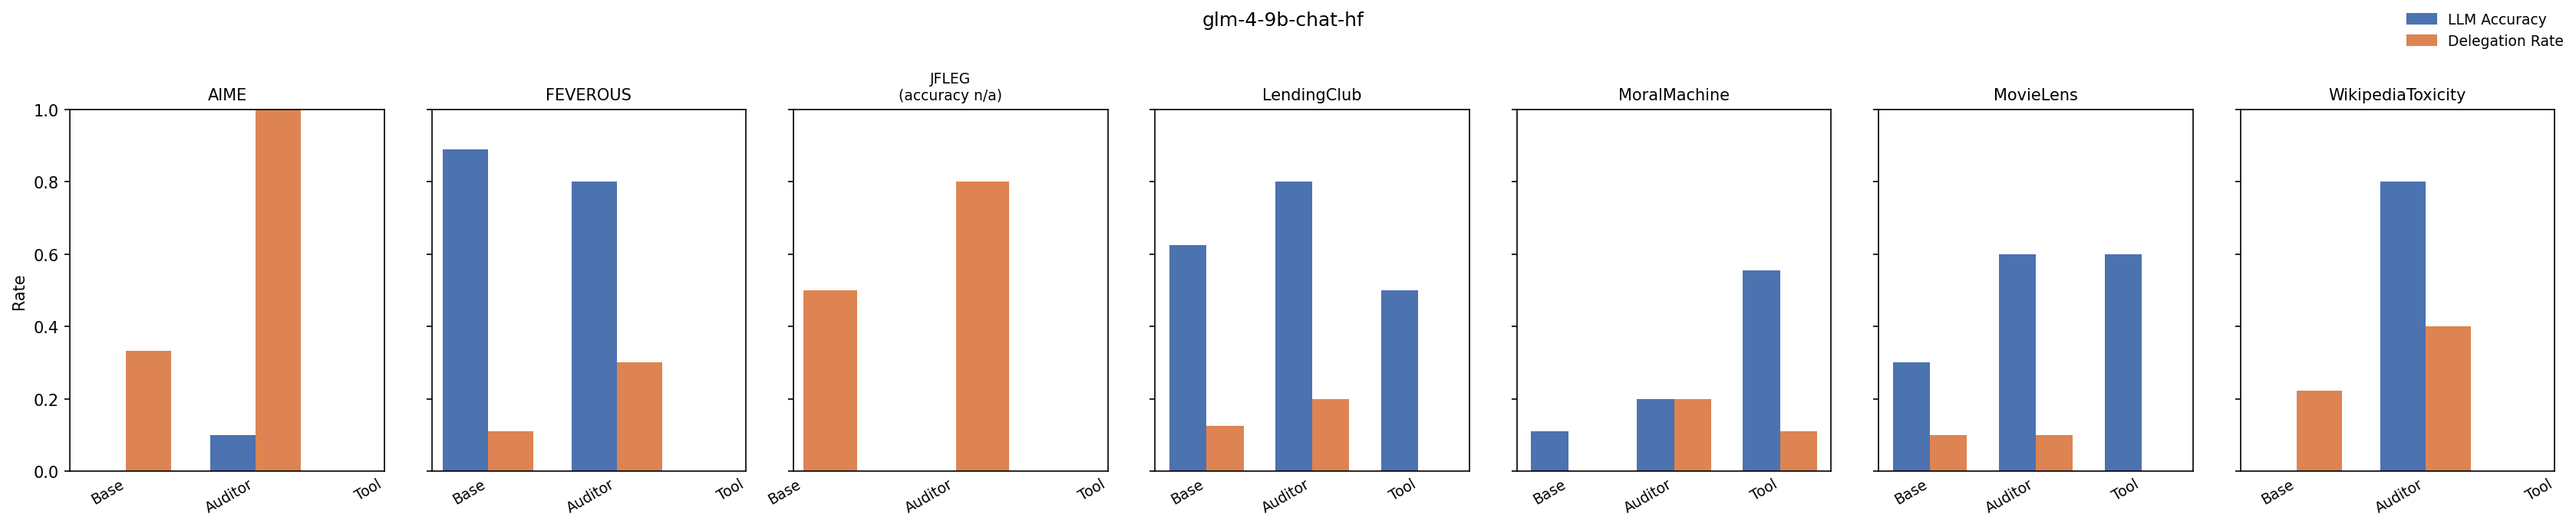
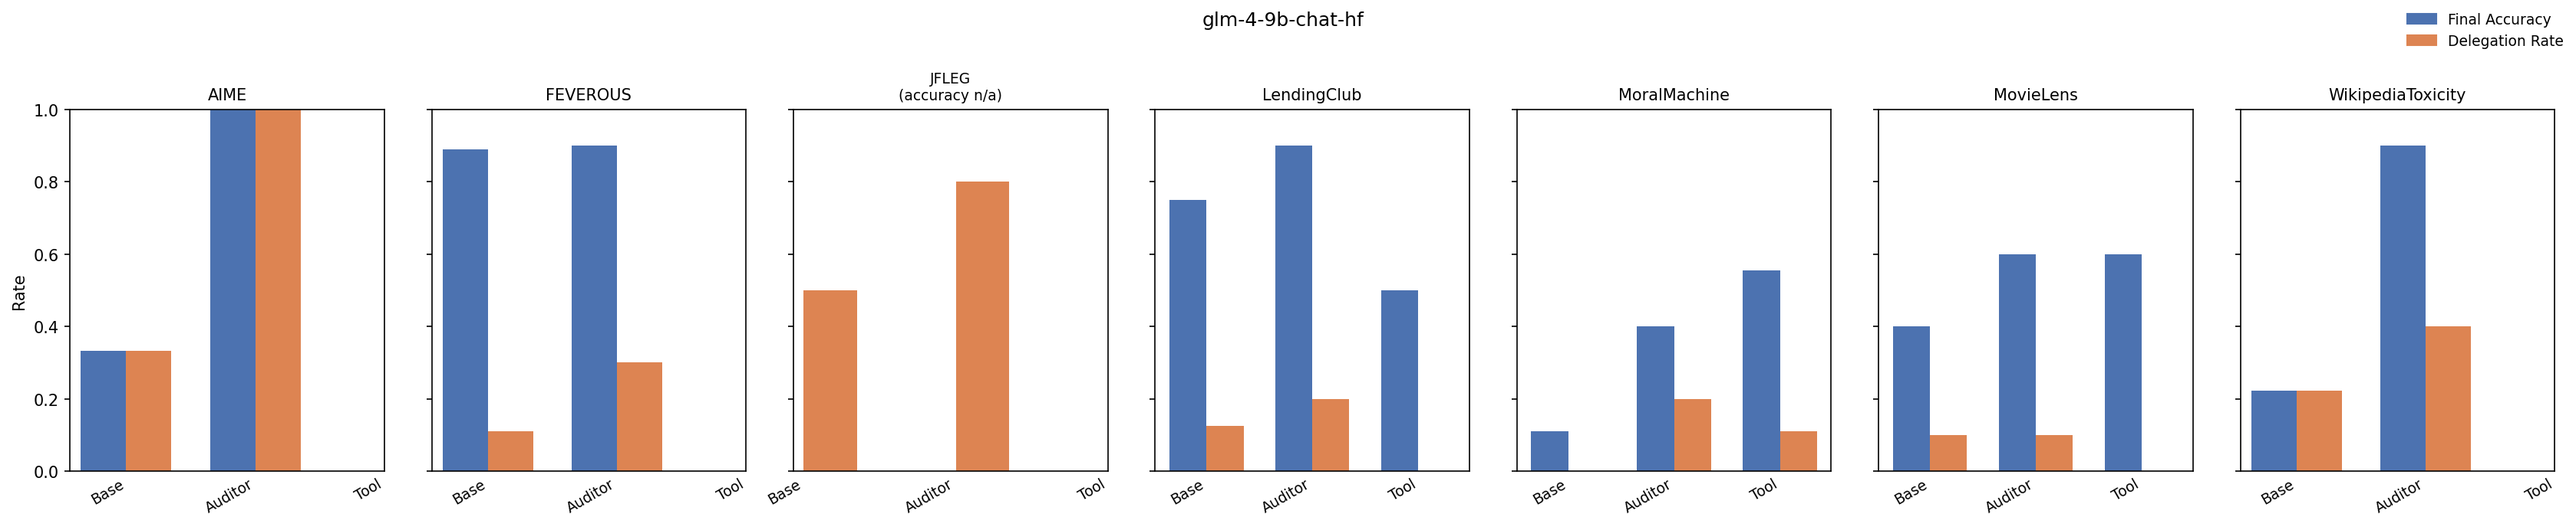
Add model x method accuracy analysis and regenerate visuals with fresh 14B/8B data
- Add scripts/plot_model_method_accuracy.py with three new charts:
  1. Grouped bar chart: mean final accuracy by model × method
  2. Auditor gain bar chart (auditor − base, per model)
  3. Auditor gain heatmap (model × dataset)
- Regenerate all per-model visuals with updated Qwen3-1.7B/4B/8B/14B results

https://claude.ai/code/session_014ywgEPu7pi1Aw4HH2SWQWR

diff --git a/scripts/plot_model_method_accuracy.py b/scripts/plot_model_method_accuracy.py
@@ -1,0 +1,164 @@
+"""
+Cross-model accuracy heatmap/bar chart: model x method final accuracy,
+averaged across datasets where data exists for that (model, method) pair.
+
+Final accuracy definition: delegated rows = correct (human assumed perfect);
+implemented rows = correct iff llm_prediction == ground_truth.
+"""
+
+import numpy as np
+import pandas as pd
+import matplotlib.pyplot as plt
+import matplotlib.patches as mpatches
+from pathlib import Path
+
+RESULTS_DIR = Path("results")
+VISUALS_DIR = Path("visuals")
+
+DATASETS = [
+    "AIME", "FEVEROUS", "HotelBookings", "JFLEG",
+    "LendingClub", "MoralMachine", "MovieLens", "Uber", "WikipediaToxicity",
+]
+MODELS = [
+    "Qwen2.5-1.5B-Instruct", "gpt-5-nano-2025-08-07", "Qwen3-1.7B",
+    "gpt-5-mini-2025-08-07", "Qwen2.5-7B-Instruct", "glm-4-9b-chat-hf",
+    "Qwen3-4B", "Qwen3-8B", "Qwen3-14B",
+]
+TOOL_METHODS = {"rf", "ols", "glm"}
+TEXT_GEN_DATASETS = {"JFLEG"}
+MODE_ORDER = ["base", "auditor", "tool"]
+MODE_LABELS = {"base": "Base", "auditor": "Auditor", "tool": "Tool"}
+COLORS = {"base": "#5B8DB8", "auditor": "#E07B39", "tool": "#5FAD56"}
+
+
+def ground_truth_col(df):
+    return "Answer" if "Answer" in df.columns else "human_response"
+
+
+def compute_accuracy(df, dataset):
+    if dataset in TEXT_GEN_DATASETS:
+        return np.nan
+    valid = df[df["llm_delegate"].notna()].copy()
+    if valid.empty:
+        return np.nan
+    gt_col = ground_truth_col(df)
+    pred = pd.to_numeric(valid["llm_prediction"], errors="coerce")
+    truth = pd.to_numeric(valid[gt_col], errors="coerce")
+    correct_implemented = (valid["llm_delegate"] == 0) & (pred == truth)
+    delegated = valid["llm_delegate"] == 1
+    return (correct_implemented | delegated).mean()
+
+
+# Build records: (model, mode, dataset, accuracy)
+records = []
+for model in MODELS:
+    for dataset in DATASETS:
+        dataset_dir = RESULTS_DIR / dataset
+        if not dataset_dir.exists():
+            continue
+        for filepath in sorted(dataset_dir.glob(f"*_{model}.csv")):
+            df = pd.read_csv(filepath)
+            method = df["method"].dropna().iloc[0]
+            mode = "tool" if method in TOOL_METHODS else method
+            acc = compute_accuracy(df, dataset)
+            if not np.isnan(acc):
+                records.append({"model": model, "mode": mode, "dataset": dataset, "accuracy": acc})
+
+df_all = pd.DataFrame(records)
+
+# ── Figure 1: grouped bar chart, one group per model, bars = methods ──────────
+pivot = df_all.groupby(["model", "mode"])["accuracy"].mean().unstack("mode")
+pivot = pivot.reindex(index=MODELS, columns=MODE_ORDER)
+
+n_models = len(pivot)
+n_modes = len(MODE_ORDER)
+x = np.arange(n_models)
+width = 0.22
+
+fig, ax = plt.subplots(figsize=(13, 5))
+for i, mode in enumerate(MODE_ORDER):
+    if mode not in pivot.columns:
+        continue
+    vals = pivot[mode].values.astype(float)
+    offset = (i - 1) * width
+    bars = ax.bar(x + offset, vals, width, color=COLORS[mode],
+                  label=MODE_LABELS[mode], zorder=3)
+    # label bars that actually have data
+    for bar, v in zip(bars, vals):
+        if not np.isnan(v):
+            ax.text(bar.get_x() + bar.get_width() / 2, bar.get_height() + 0.01,
+                    f"{v:.2f}", ha="center", va="bottom", fontsize=7)
+
+ax.set_xticks(x)
+ax.set_xticklabels([m.replace("-Instruct", "") for m in MODELS], rotation=30, ha="right", fontsize=9)
+ax.set_ylim(0, 1.08)
+ax.set_ylabel("Mean Final Accuracy (across available datasets)", fontsize=10)
+ax.set_title("Final Accuracy by Model × Method\n(averaged over datasets where data exists)", fontsize=11)
+ax.legend(fontsize=10, frameon=False)
+ax.yaxis.grid(True, linestyle="--", alpha=0.5, zorder=0)
+ax.set_axisbelow(True)
+plt.tight_layout()
+out1 = VISUALS_DIR / "model_x_method_accuracy.png"
+plt.savefig(out1, dpi=150, bbox_inches="tight")
+plt.close()
+print(f"Saved {out1}")
+
+# ── Figure 2: auditor gain = auditor_acc - base_acc, per model ────────────────
+gain = pivot["auditor"] - pivot["base"]
+gain = gain.dropna()
+
+fig2, ax2 = plt.subplots(figsize=(9, 4))
+bar_colors = ["#E07B39" if v >= 0 else "#C0392B" for v in gain.values]
+bars = ax2.bar(range(len(gain)), gain.values, color=bar_colors, zorder=3)
+for bar, v in zip(bars, gain.values):
+    ax2.text(bar.get_x() + bar.get_width() / 2,
+             bar.get_height() + (0.005 if v >= 0 else -0.02),
+             f"{v:+.3f}", ha="center", va="bottom", fontsize=8)
+
+ax2.axhline(0, color="black", linewidth=0.8)
+ax2.set_xticks(range(len(gain)))
+ax2.set_xticklabels([m.replace("-Instruct", "") for m in gain.index], rotation=30, ha="right", fontsize=9)
+ax2.set_ylabel("Auditor − Base Accuracy", fontsize=10)
+ax2.set_title("Auditor Gain over Base (mean across available datasets)", fontsize=11)
+ax2.yaxis.grid(True, linestyle="--", alpha=0.5, zorder=0)
+ax2.set_axisbelow(True)
+plt.tight_layout()
+out2 = VISUALS_DIR / "auditor_gain.png"
+plt.savefig(out2, dpi=150, bbox_inches="tight")
+plt.close()
+print(f"Saved {out2}")
+
+# ── Figure 3: per-dataset heatmap of auditor gain ─────────────────────────────
+pivot_ds = df_all.groupby(["model", "mode", "dataset"])["accuracy"].mean().unstack("mode")
+auditor_gain_ds = (pivot_ds["auditor"] - pivot_ds["base"]).unstack("dataset")
+auditor_gain_ds = auditor_gain_ds.reindex(index=MODELS)
+
+fig3, ax3 = plt.subplots(figsize=(12, 5))
+cmap = plt.cm.RdYlGn
+im = ax3.imshow(auditor_gain_ds.values.astype(float), aspect="auto", cmap=cmap, vmin=-0.3, vmax=0.3)
+ax3.set_xticks(range(len(auditor_gain_ds.columns)))
+ax3.set_xticklabels(auditor_gain_ds.columns, rotation=30, ha="right", fontsize=9)
+ax3.set_yticks(range(len(MODELS)))
+ax3.set_yticklabels([m.replace("-Instruct", "") for m in MODELS], fontsize=9)
+ax3.set_title("Auditor Gain (Auditor − Base) per Model × Dataset", fontsize=11)
+plt.colorbar(im, ax=ax3, label="Accuracy gain")
+# annotate cells
+for i in range(len(MODELS)):
+    for j in range(len(auditor_gain_ds.columns)):
+        v = auditor_gain_ds.values[i, j]
+        if not np.isnan(v):
+            ax3.text(j, i, f"{v:+.2f}", ha="center", va="center", fontsize=7,
+                     color="black")
+        else:
+            ax3.text(j, i, "—", ha="center", va="center", fontsize=8, color="#aaa")
+plt.tight_layout()
+out3 = VISUALS_DIR / "auditor_gain_heatmap.png"
+plt.savefig(out3, dpi=150, bbox_inches="tight")
+plt.close()
+print(f"Saved {out3}")
+
+# ── Print summary table ───────────────────────────────────────────────────────
+print("\n── Mean accuracy by model × method ──")
+print(pivot.round(3).to_string())
+print("\n── Auditor gain (auditor − base) ──")
+print(gain.round(3).to_string())
